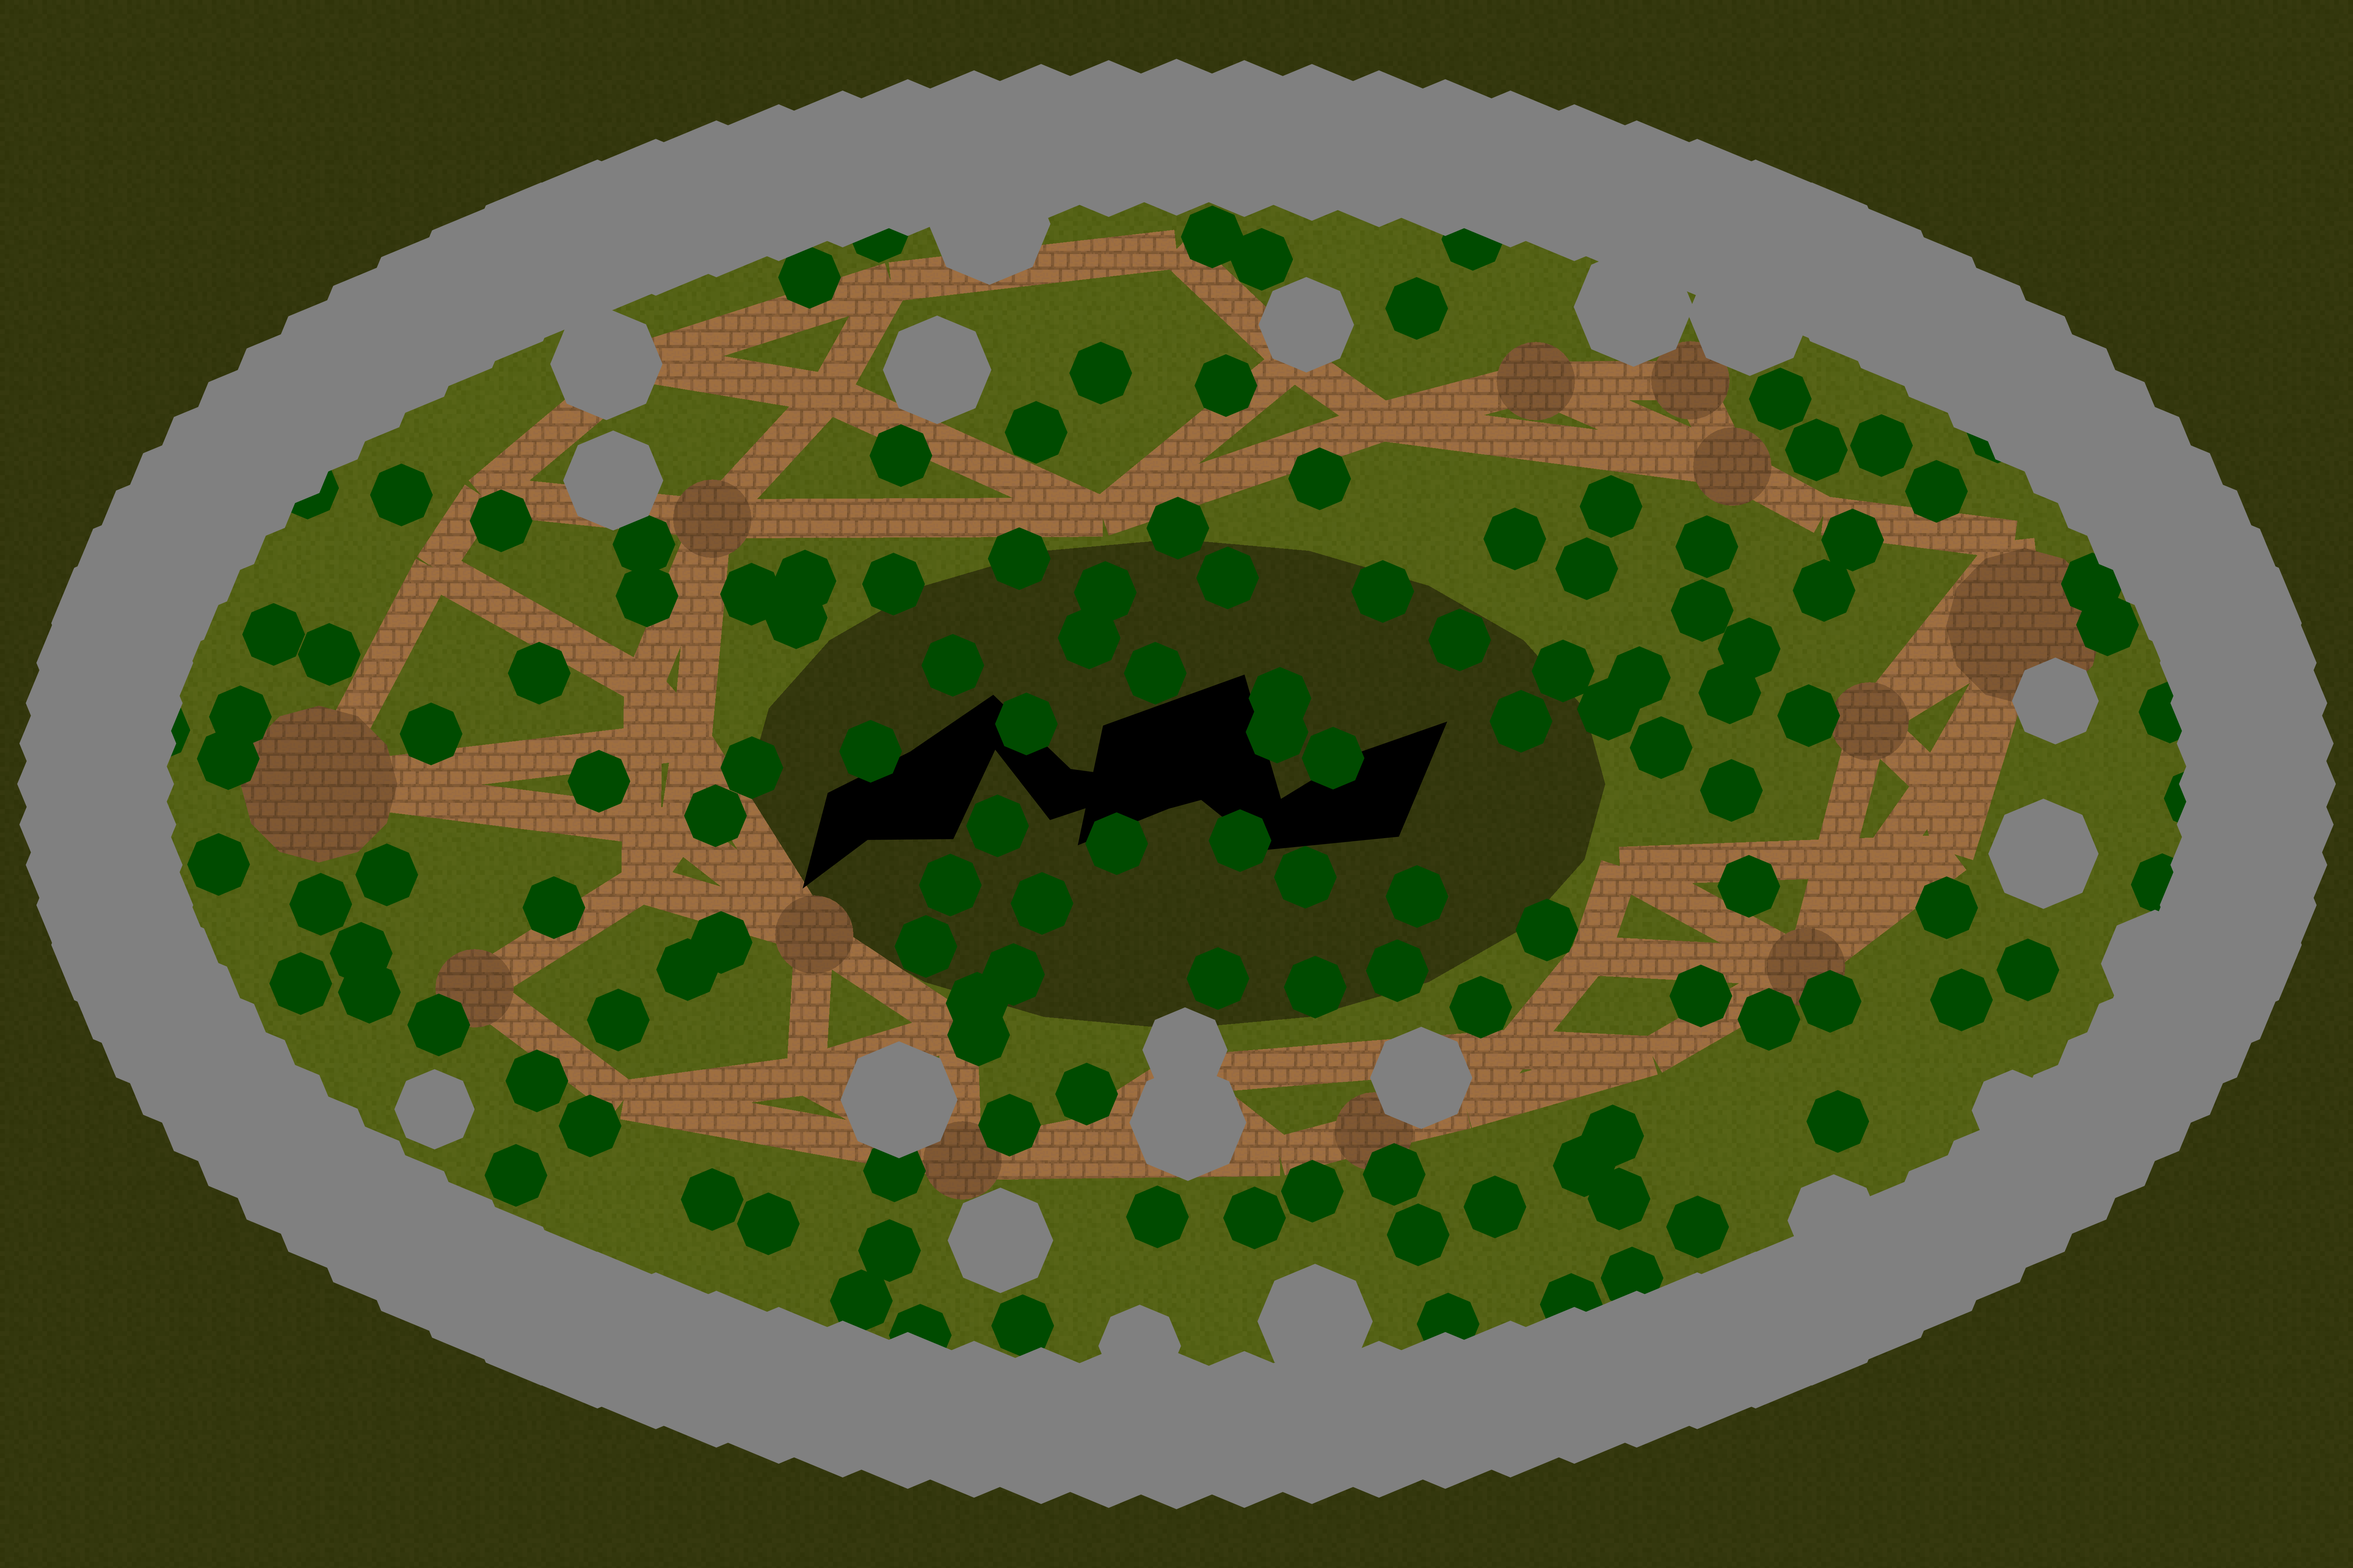
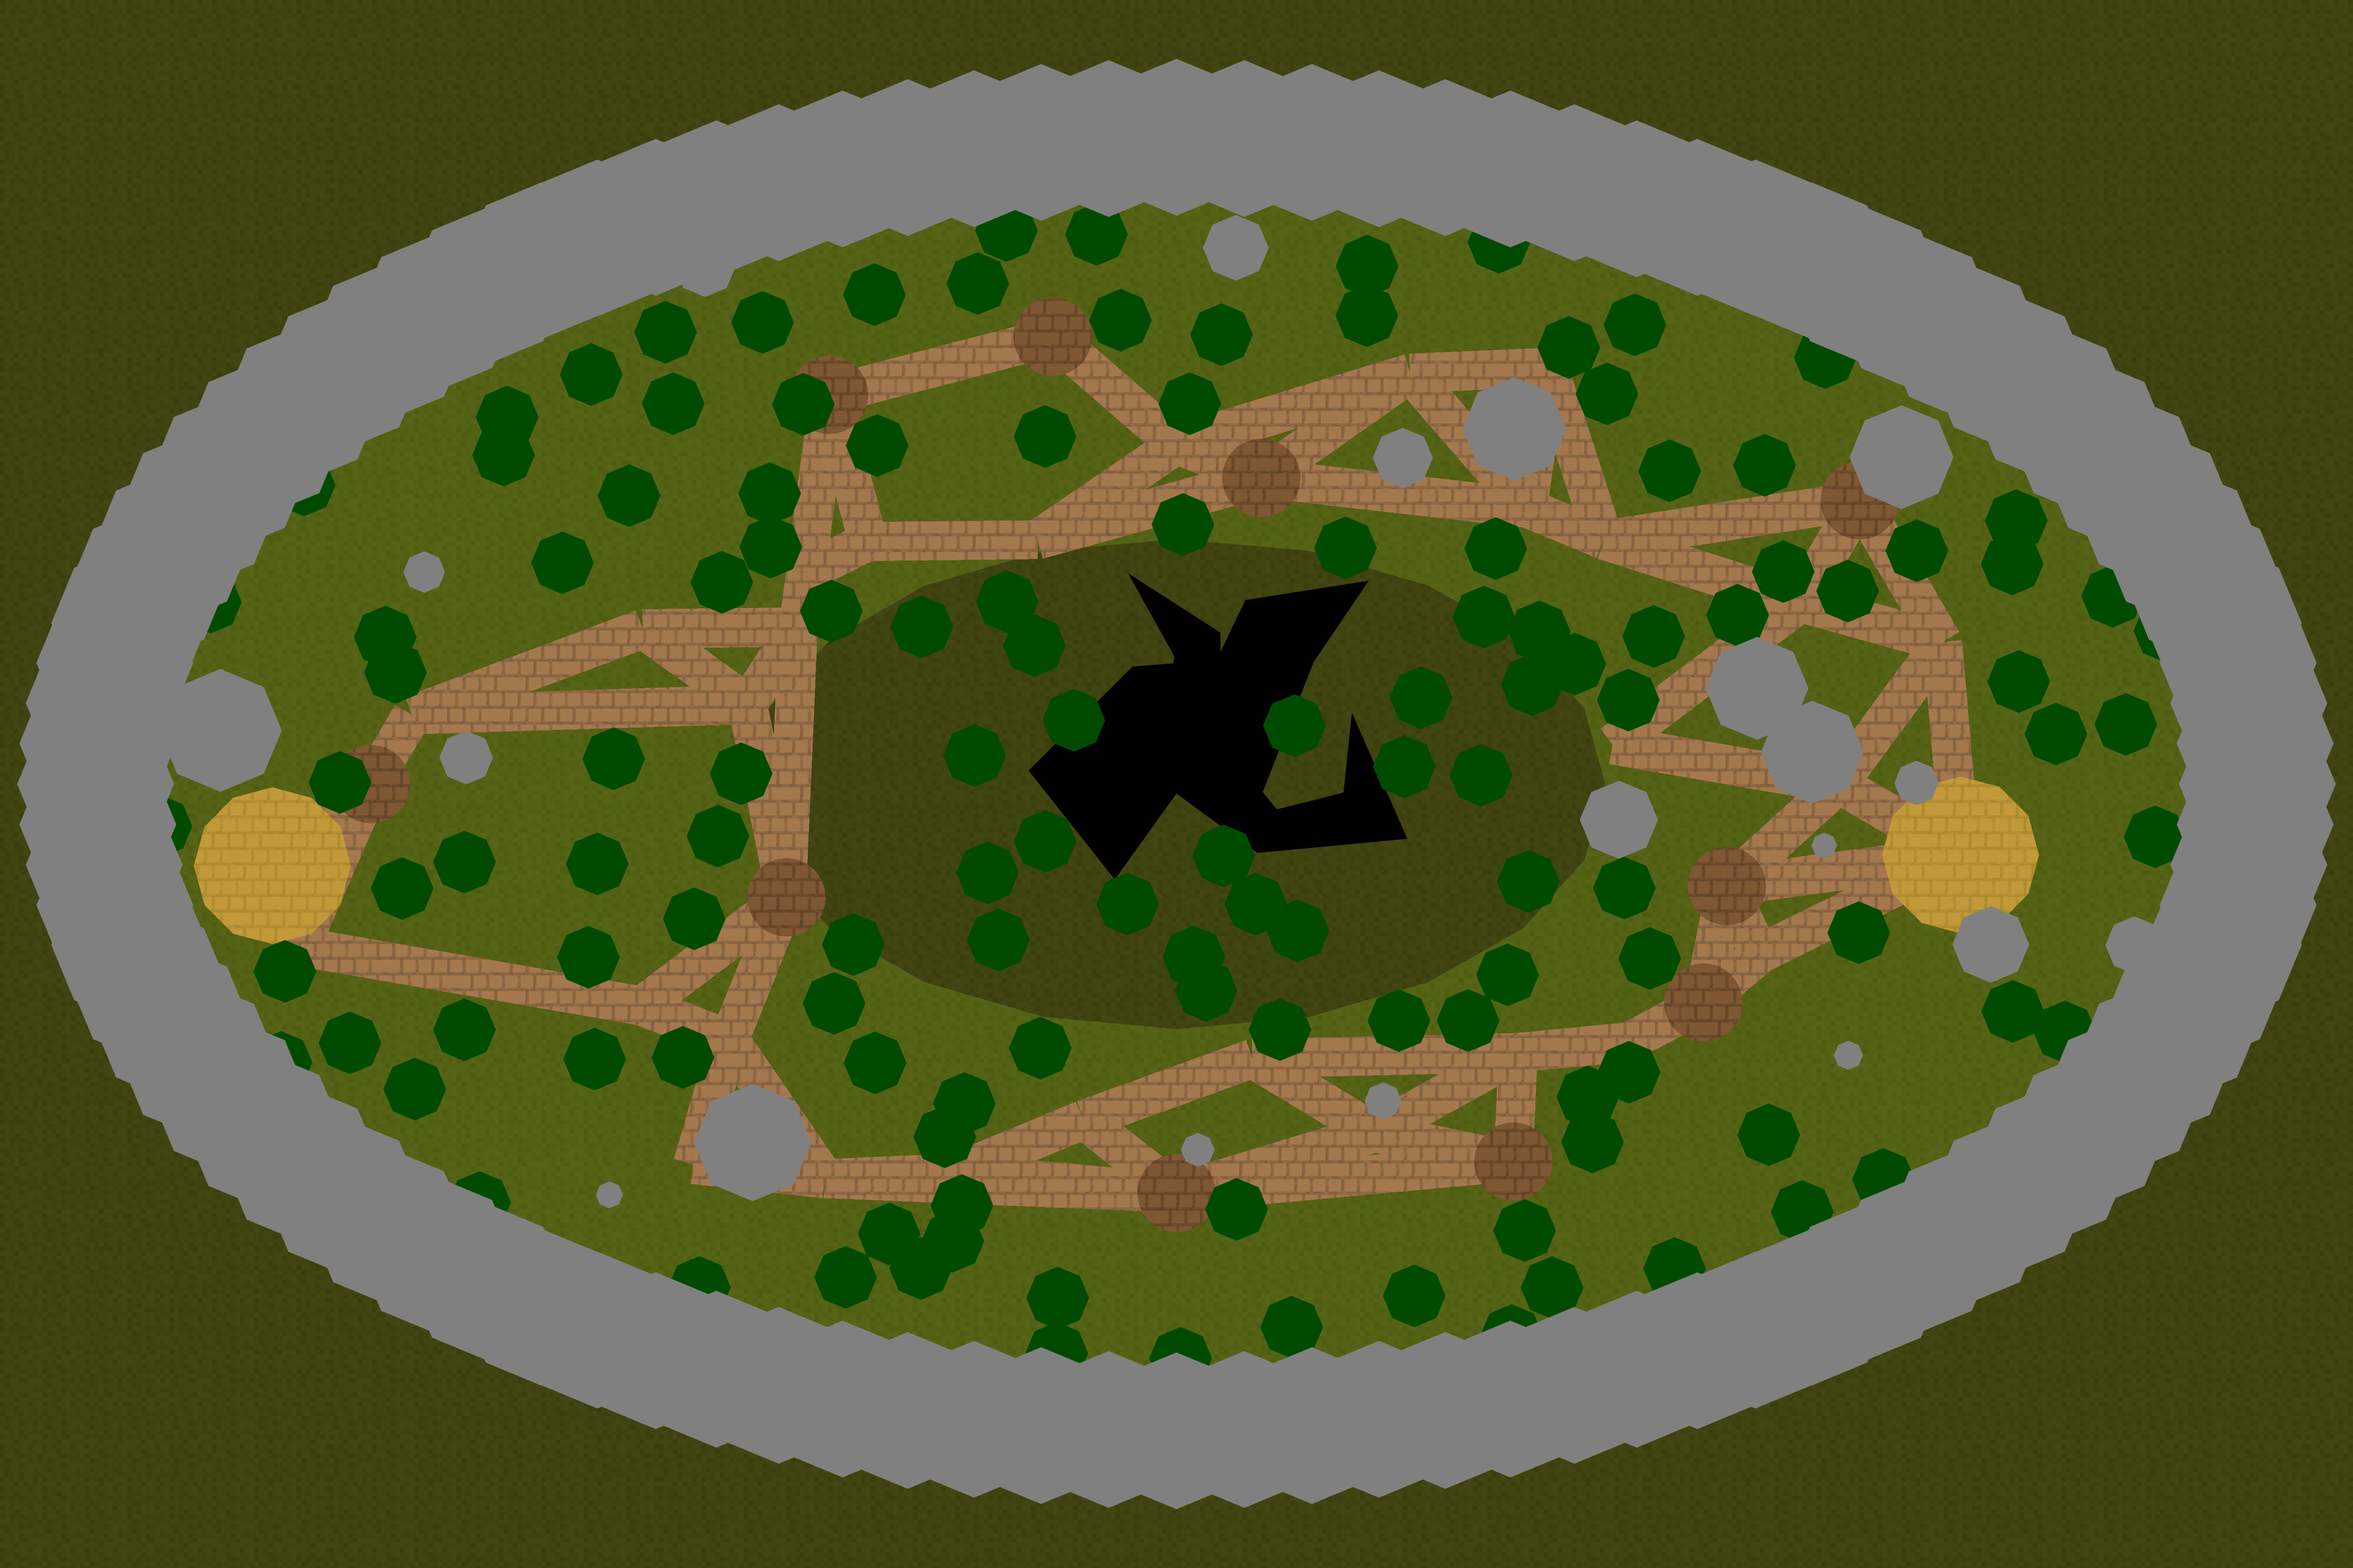
Made rock size more variable

Changed region(s): [[0.0623, 0.125, 0.935, 0.875]]

diff --git a/src/server/MapGen.java b/src/server/MapGen.java
@@ -340,7 +340,7 @@ public class MapGen {
     		temp.location.y = tempY;
     		
     		if (randomization) {    			
-    			double percentRand = 0.4;
+    			double percentRand = 0.8;
     			temp.radius = (int) (Math.random()*maxRadius*(percentRand) + maxRadius*(1.0 - percentRand));
     		}
     		
